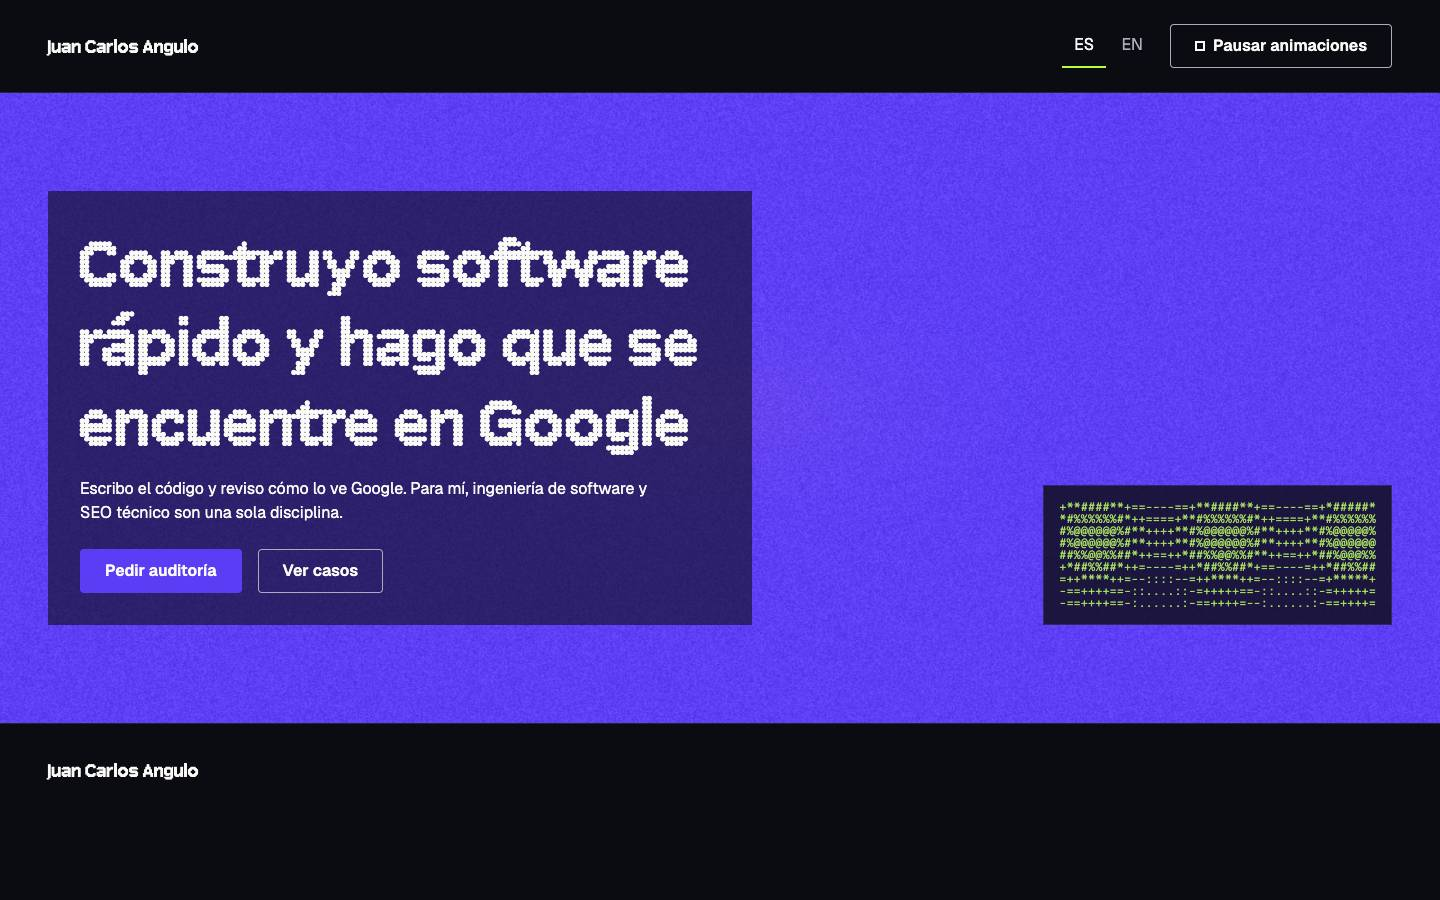
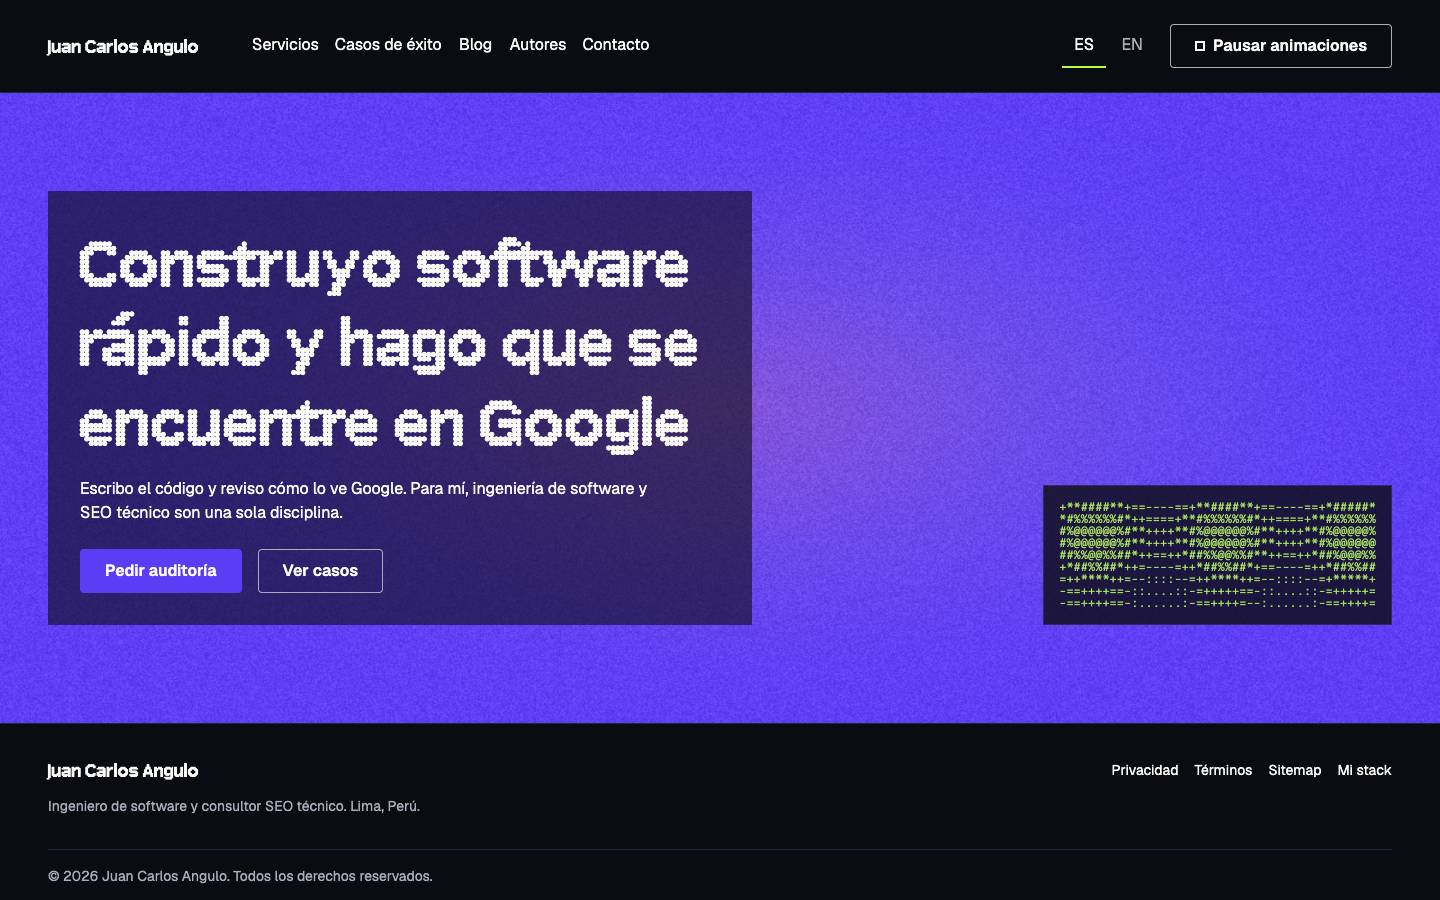
feat(52-01): cabecera con navegacion y pie de la home
- Barra de navegacion y menu colapsado con los cinco destinos, EN/ES con aria-current
- Footer con marca, linea de oficio, enlaces legales al sitio vivo y copyright
- Stage chrome de verify-home (c1 a c9): landmarks, salto, menu, desborde, destinos, foco y objetivos tactiles

diff --git a/designs/redesign-v3/app/src/home/HomePage.tsx b/designs/redesign-v3/app/src/home/HomePage.tsx
@@ -1,7 +1,9 @@
 import { useLayoutEffect } from 'react';
 import { ASCII_ART } from '../gallery/fallbacks';
 import { HomeEffect, HomeEffectProvider, useHomeEffects } from './home-effect';
+import { Footer } from './Footer';
 import { HomeSections } from './HomeSections';
+import { liveUrl } from './links';
 import copyJson from './copy/page.json';
 import './home.css';
 
@@ -29,11 +31,24 @@ function useDocumentMeta(lang: Lang) {
 function Header({ lang }: { lang: Lang }) {
   const { paused, togglePause } = useHomeEffects();
   const t = copy[lang].header;
+  const nav = copy[lang].nav;
+  const links = nav.items.map((item) => (
+    <li key={item.label}>
+      <a href={'href' in item ? item.href : liveUrl(lang, item.live)}>{item.label}</a>
+    </li>
+  ));
   return (
     <header className="site-header hm-header">
       <a className="brand" href={HOME_PATH[lang]}>
         Juan Carlos Angulo
       </a>
+      <nav className="nav" aria-label={nav.label}>
+        <ul className="nav__list nav__list--bar">{links}</ul>
+        <details className="nav__menu">
+          <summary>{nav.menu}</summary>
+          <ul className="nav__list">{links}</ul>
+        </details>
+      </nav>
       <div className="site-header__tools">
         <ul className="lang" aria-label={t.langLabel}>
           <li>
@@ -85,13 +100,7 @@ function Hero({ lang }: { lang: Lang }) {
 
 function Page({ lang }: { lang: Lang }) {
   useDocumentMeta(lang);
-  const after = (
-    <footer className="site-footer hm-footer">
-      <a className="brand" href={HOME_PATH[lang]}>
-        Juan Carlos Angulo
-      </a>
-    </footer>
-  );
+  const after = <Footer lang={lang} />;
   return (
     <>
       <a className="skip-link" href="#contenido">

diff --git a/designs/redesign-v3/app/src/home/Footer.tsx b/designs/redesign-v3/app/src/home/Footer.tsx
@@ -1,0 +1,32 @@
+import footerJson from './copy/footer.json';
+import type { Lang } from './HomePage';
+import { liveUrl } from './links';
+
+const copy = footerJson as Record<Lang, (typeof footerJson)['es']>;
+
+/** Pie de la home. 52-05 agrega encima las columnas y las listas dinamicas. */
+export function Footer({ lang }: { lang: Lang }) {
+  const t = copy[lang];
+  return (
+    <footer className="site-footer hm-footer">
+      <div className="hm-footer__top">
+        <div>
+          <a className="brand" href={lang === 'en' ? '/en' : '/'}>
+            Juan Carlos Angulo
+          </a>
+          <p className="hm-footer__tagline">{t.tagline}</p>
+        </div>
+        <ul className="hm-footer__legal" aria-label={t.legalLabel}>
+          {t.legal.map((item) => (
+            <li key={item.path}>
+              <a href={liveUrl(lang, item.path)}>{item.label}</a>
+            </li>
+          ))}
+        </ul>
+      </div>
+      <div className="site-footer__legal">
+        <p>{t.copyright}</p>
+      </div>
+    </footer>
+  );
+}

diff --git a/designs/redesign-v3/app/src/home/home.css b/designs/redesign-v3/app/src/home/home.css
@@ -82,3 +82,27 @@
 .site-footer.hm-footer a {
   color: var(--paper);
 }
+
+.hm-footer__top {
+  display: flex;
+  flex-wrap: wrap;
+  align-items: flex-start;
+  justify-content: space-between;
+  gap: var(--space-4);
+}
+
+.hm-footer__tagline {
+  max-width: var(--measure);
+  margin-top: var(--space-1);
+}
+
+.hm-footer__legal {
+  display: flex;
+  flex-wrap: wrap;
+  gap: var(--space-1) var(--space-3);
+}
+
+/* Marca del pie: misma caja fija que la de la cabecera (regla 12). */
+.hm-footer .brand {
+  min-width: 11rem;
+}

diff --git a/designs/redesign-v3/app/src/home/links.ts b/designs/redesign-v3/app/src/home/links.ts
@@ -1,0 +1,9 @@
+import type { Lang } from './HomePage';
+
+// Destinos permitidos (T-52-02): #ancla, rutas de la propia app (/ y /en) y el sitio vivo. Nada de javascript: ni data:.
+export const LIVE_ORIGIN = 'https://juan-tech.com';
+
+/** URL de una pagina del sitio vivo; en ingles lleva el prefijo /en. */
+export function liveUrl(lang: Lang, path: string): string {
+  return `${LIVE_ORIGIN}${lang === 'en' ? '/en' : ''}${path}`;
+}
